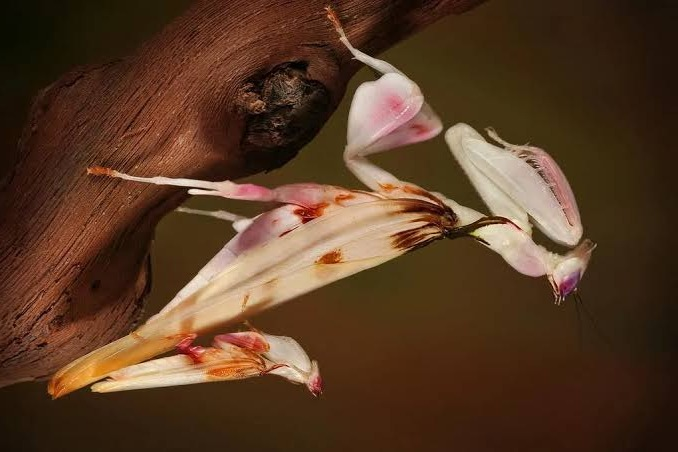
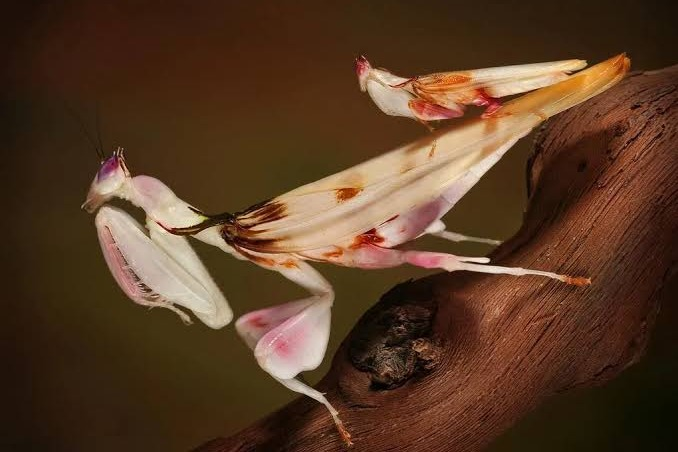
난초사마귀 사진 반대 방향으로 돌리기

diff --git a/index.html b/index.html
@@ -15,7 +15,7 @@
   <div class="hero-word">
     <h1 class="hero-title"><b>Bug</b>Log</h1>
   </div>
-  <img class="hero-bug" src="assets/mantis.jpg" alt="난초사마귀">
+  <img class="hero-bug" src="assets/mantis.jpg?v=2" alt="난초사마귀">
 </section>
 
 <main>
